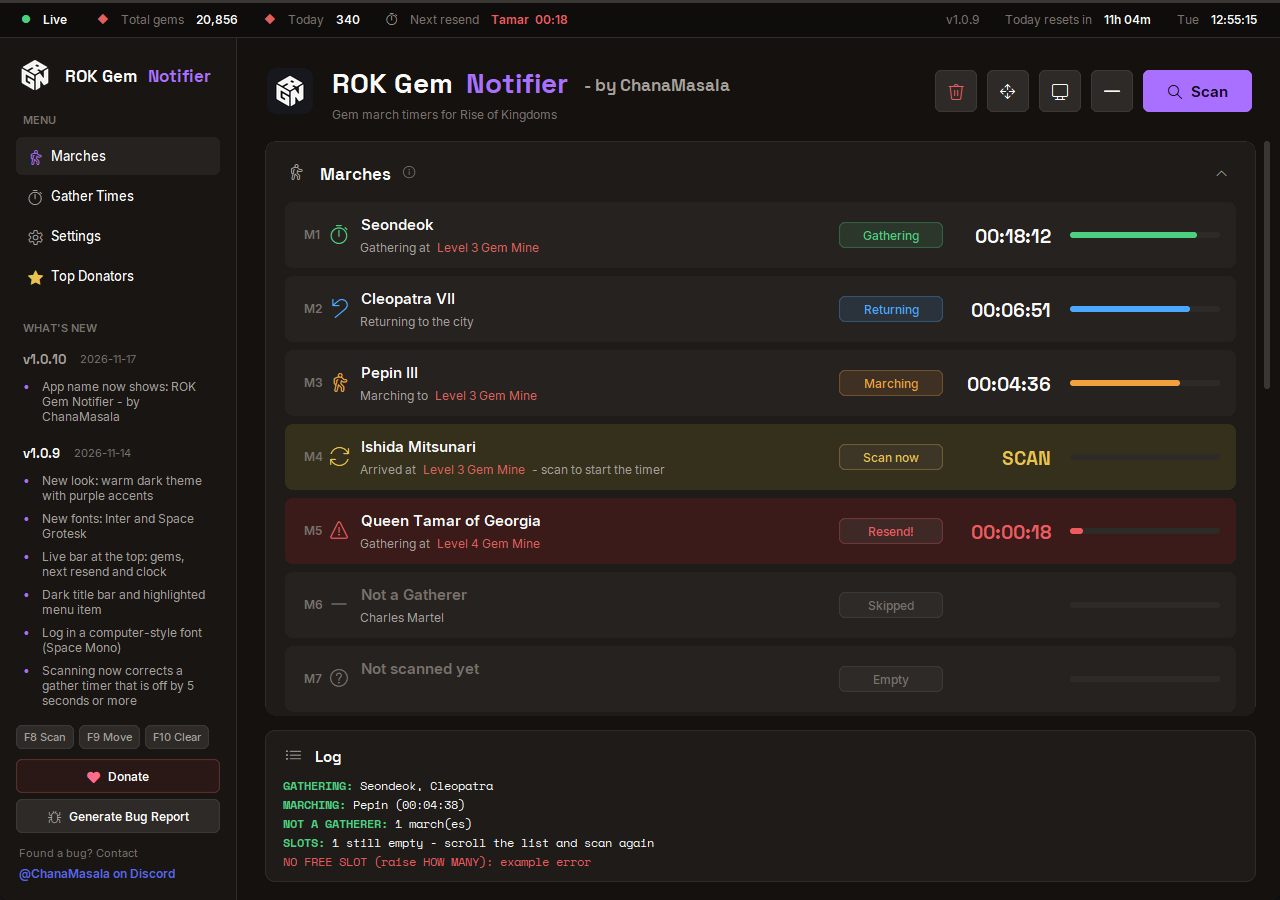
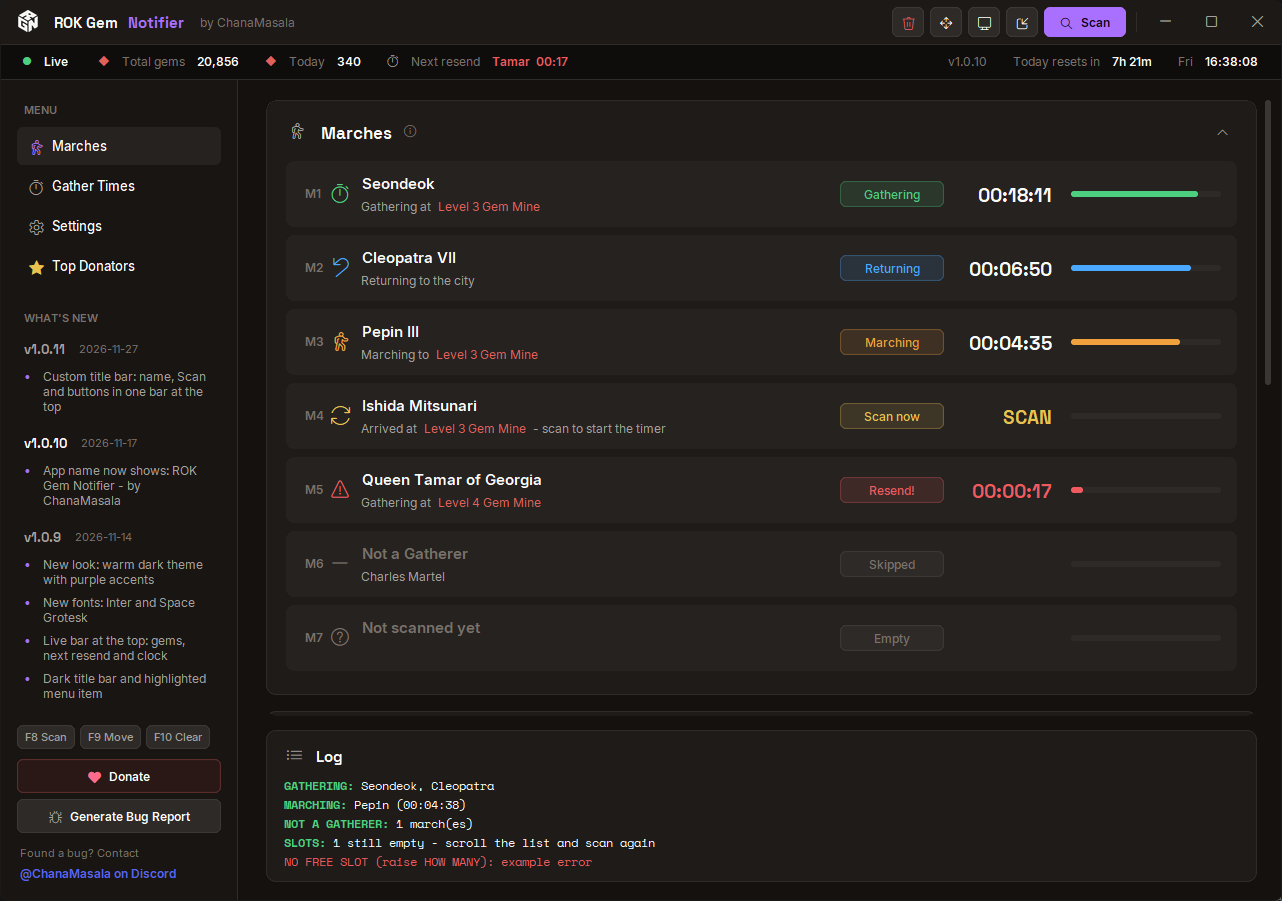
Custom window chrome: own title bar with name, Scan, tool and window buttons

diff --git a/source/rok_gem_notifier.py b/source/rok_gem_notifier.py
@@ -133,6 +133,9 @@ DONORS_FILE = "donors.json"               # last list downloaded, for offline us
 # Newest first. Shown in the sidebar under "What's new"; release.py uses the
 # entry of the version it publishes as the GitHub release notes.
 CHANGELOG = [
+    ("1.0.11", "2026-11-27", [
+        "Custom title bar: name, Scan and buttons in one bar at the top",
+    ]),
     ("1.0.10", "2026-11-17", [
         "App name now shows: ROK Gem Notifier - by ChanaMasala",
     ]),
@@ -363,6 +366,8 @@ BG, SIDEBAR, CARD, GROUP = "#14110f", "#181513", "#1e1b19", "#262220"
 FIELD, FIELD_HI, BORDER = "#2e2a28", "#3a3634", "#302c2a"
 EDGE = "#3d3936"           # thin outline of buttons and fields
 TOPBAR = "#0f0d0c"         # live strip along the top of the window
+TITLEBAR = "#1c1917"       # the app's own title bar (custom window chrome)
+CLOSE_HOVER = "#c42b1c"    # Windows' red for the close button
 PANEL, INPUT_BG, LINE = CARD, FIELD, BORDER          # older names, still used by the overlay
 TEXT, MUTED, WHITE = "#a6a09b", "#79716b", "#fafaf9"
 GRAY = MUTED
@@ -383,11 +388,12 @@ TITLE_RED = ACCENT         # "Notifier" in the app name
 # Segoe Fluent Icons / Segoe MDL2 Assets glyphs (built into Windows 10/11)
 IC = {"scan": "", "settings": "", "info": "", "sound": "",
       "timer": "", "clock": "", "trash": "", "move": "",
-      "tray": "", "overlay": "", "area": "", "full": "",
+      "tray": "", "overlay": "", "area": "", "full": "",
       "lock": "", "unlock": "", "down": "", "up": "",
       "walk": "", "reset": "", "smart": "", "log": "",
       "warn": "", "sync": "", "people": "", "minus": "",
-      "unknown": "", "return": "\ue7a7", "heart": "", "keyboard": "", "bug": "\uebe8", "star": "\ue735", "back": "\ue72b"}
+      "unknown": "", "return": "\ue7a7", "heart": "", "keyboard": "", "bug": "\uebe8", "star": "\ue735", "back": "\ue72b",
+      "w_min": "\ue921", "w_max": "\ue922", "w_restore": "\ue923", "w_close": "\ue8bb"}
 
 
 # ================================================================ core
@@ -1302,6 +1308,80 @@ def dark_titlebar(win, color):
         pass
 
 
+_CHROME = {}    # keeps the window-procedure callback alive
+
+
+def custom_chrome(win):
+    """Hide the Windows title bar but keep a real window: taskbar button, Alt+Tab,
+    snapping, minimise/maximise, resize edges, shadow and round corners all stay.
+    The app draws its own title bar instead. Returns the window handle, or None
+    (then the normal Windows title bar is kept)."""
+    if os.name != "nt":
+        return None
+    try:
+        import ctypes
+        from ctypes import wintypes as wt
+        u = ctypes.windll.user32
+        LRESULT = ctypes.c_ssize_t
+        PROC = ctypes.WINFUNCTYPE(LRESULT, wt.HWND, wt.UINT, wt.WPARAM, wt.LPARAM)
+        u.CallWindowProcW.restype = LRESULT
+        u.CallWindowProcW.argtypes = [ctypes.c_void_p, wt.HWND, wt.UINT, wt.WPARAM, wt.LPARAM]
+        u.SetWindowLongPtrW.restype = ctypes.c_void_p
+        u.SetWindowLongPtrW.argtypes = [wt.HWND, ctypes.c_int, ctypes.c_void_p]
+        u.MonitorFromWindow.restype = ctypes.c_void_p
+        u.MonitorFromWindow.argtypes = [wt.HWND, wt.DWORD]
+
+        class MONITORINFO(ctypes.Structure):
+            _fields_ = [("cbSize", wt.DWORD), ("rcMonitor", wt.RECT),
+                        ("rcWork", wt.RECT), ("dwFlags", wt.DWORD)]
+
+        win.update_idletasks()
+        hwnd = u.GetParent(win.winfo_id())
+        st = {}
+
+        def proc(h, msg, wp, lp):
+            try:
+                if msg == 0x0083 and wp:          # WM_NCCALCSIZE: no caption, keep the side/bottom resize edges
+                    r = wt.RECT.from_address(lp)
+                    top = r.top
+                    res = u.CallWindowProcW(st["old"], h, msg, wp, lp)
+                    r.top = top
+                    if u.IsZoomed(h):              # maximised: don't hide the top under the screen edge
+                        mi = MONITORINFO()
+                        mi.cbSize = ctypes.sizeof(MONITORINFO)
+                        if u.GetMonitorInfoW(ctypes.c_void_p(u.MonitorFromWindow(h, 2)),
+                                             ctypes.byref(mi)):
+                            r.top = max(top, mi.rcWork.top)
+                    return res
+                if msg == 0x0086:                  # WM_NCACTIVATE: don't paint a caption
+                    return u.CallWindowProcW(st["old"], h, msg, wp, -1)
+            except Exception:
+                pass
+            return u.CallWindowProcW(st["old"], h, msg, wp, lp)
+
+        cb = PROC(proc)
+        st["old"] = u.SetWindowLongPtrW(hwnd, -4, ctypes.cast(cb, ctypes.c_void_p))   # GWLP_WNDPROC
+        if not st["old"]:
+            return None
+        _CHROME[hwnd] = (cb, st)
+        u.SetWindowPos(hwnd, 0, 0, 0, 0, 0, 0x0027)    # NOSIZE|NOMOVE|NOZORDER|FRAMECHANGED
+        return hwnd
+    except Exception as e:
+        log_error("window chrome", e)
+        return None
+
+
+def win_drag(hwnd, where=2):
+    """Let Windows move (where=2, title bar) or resize (12 = top edge) the window,
+    exactly as if its own title bar / border had been grabbed (snapping included)."""
+    try:
+        import ctypes
+        ctypes.windll.user32.ReleaseCapture()
+        ctypes.windll.user32.SendMessageW(hwnd, 0x00A1, where, 0)   # WM_NCLBUTTONDOWN
+    except Exception:
+        pass
+
+
 def mix(c1, c2, t):
     """Colour c1 laid over c2 at strength t (0..1), as #rrggbb."""
     a = [int(c1[i:i + 2], 16) for i in (1, 3, 5)]
@@ -1745,7 +1825,8 @@ class App:
         except Exception:
             pass
         root.configure(bg=BG)
-        dark_titlebar(root, TOPBAR)
+        dark_titlebar(root, TITLEBAR)
+        self.hwnd = None if demo == "native" else custom_chrome(root)
         root.geometry("1280x900")
         root.minsize(1120, 620)
 
@@ -1823,6 +1904,7 @@ class App:
 
     # ---------- layout
     def build(self):
+        self.build_titlebar(self.root)
         self.build_topbar(self.root)
         side = tk.Frame(self.root, bg=SIDEBAR, width=236)
         side.pack(side="left", fill="y")
@@ -1831,7 +1913,7 @@ class App:
         main = tk.Frame(self.root, bg=BG)
         main.pack(side="left", fill="both", expand=True)
         self.build_sidebar(side)
-        self.build_header(main)
+        tk.Frame(main, bg=BG, height=20).pack(fill="x")
         self.build_update_bar(main)
         self.build_log(main)
         self.scroll = Scroll(main, BG)
@@ -1847,14 +1929,7 @@ class App:
             self.toggle_section(key, save=False)
 
     def build_sidebar(self, sd):
-        top = tk.Frame(sd, bg=SIDEBAR)
-        top.pack(fill="x", padx=18, pady=(20, 14))
-        self._logo_sm = self.logo(30)
-        tk.Label(top, image=self._logo_sm, bg=SIDEBAR).pack(side="left")
-        self.label(top, "ROK Gem", WHITE, 13, "head").pack(side="left", padx=(10, 0))
-        self.label(top, "Notifier", ACCENT, 13, "head").pack(side="left", padx=(4, 0))
-
-        self.label(sd, "MENU", MUTED, 8, "semi").pack(anchor="w", padx=20, pady=(4, 6))
+        self.label(sd, "MENU", MUTED, 8, "semi").pack(anchor="w", padx=20, pady=(20, 6))
         self.nav = {}
         for key, ic, name in (("marches", "walk", "Marches"), ("times", "timer", "Gather Times"),
                               ("settings", "settings", "Settings")):
@@ -1895,8 +1970,7 @@ class App:
 
     def build_topbar(self, root):
         """Thin live strip along the top (like kingshot.net): status, gems, next resend, clock."""
-        # grey gap: keeps the live bar apart from the dark Windows title bar above it
-        tk.Frame(root, bg=FIELD_HI, height=3).pack(side="top", fill="x")
+        tk.Frame(root, bg=BORDER, height=1).pack(side="top", fill="x")
         bar = tk.Frame(root, bg=TOPBAR, height=34)
         bar.pack(side="top", fill="x")
         bar.pack_propagate(False)
@@ -2163,38 +2237,87 @@ class App:
             w.pack(fill="x", pady=pady)
             used += h
 
-    def build_header(self, m):
-        h = tk.Frame(m, bg=BG)
-        h.pack(fill="x", padx=28, pady=(20, 16))
-        self._logo_hd = self.logo(46, rounded=True)
-        tk.Label(h, image=self._logo_hd, bg=BG).pack(side="left")
-        t = tk.Frame(h, bg=BG)
-        t.pack(side="left", padx=(14, 0))
-        nm = tk.Frame(t, bg=BG)
-        nm.pack(anchor="w")
-        self.label(nm, "ROK Gem", WHITE, 21, "head").pack(side="left")
-        self.label(nm, "Notifier", TITLE_RED, 21, "head").pack(side="left", padx=(7, 0))
-        self.label(nm, "- by ChanaMasala", TEXT, 13, "head").pack(side="left", padx=(10, 0),
-                                                                 anchor="s", pady=(0, 5))
-        self.label(t, "Gem march timers for Rise of Kingdoms", MUTED, 9).pack(anchor="w")
+    def build_titlebar(self, root):
+        """The app's own title bar: name, Scan, tool buttons and the window buttons.
+        Drag it to move the window (snapping works), double-click to maximise."""
+        H = 44
+        bar = self.tbar = tk.Frame(root, bg=TITLEBAR, height=H)
+        bar.pack(side="top", fill="x")
+        bar.pack_propagate(False)
+        grip = tk.Frame(bar, bg=TITLEBAR, height=4, cursor="sb_v_double_arrow" if self.hwnd else "")
+        grip.place(x=0, y=0, relwidth=1)               # top edge: resize
+        if self.hwnd:
+            grip.bind("<ButtonPress-1>", lambda e: self.root.state() != "zoomed"
+                      and win_drag(self.hwnd, 12))
 
-        self.scan_btn = Pill(h, "Scan", glyph("scan"), self.start_scan, fill=ACCENT,
-                             fg=ON_ACCENT, hover=ACCENT_HI, h=42, size=11, padx=24,
+        left = tk.Frame(bar, bg=TITLEBAR)
+        left.pack(side="left", padx=(14, 0))
+        self._logo_tb = self.logo(22)
+        lg = tk.Label(left, image=self._logo_tb, bg=TITLEBAR)
+        lg.pack(side="left")
+        a = self.label(left, "ROK Gem", WHITE, 11, "head")
+        a.pack(side="left", padx=(10, 0))
+        b = self.label(left, "Notifier", TITLE_RED, 11, "head")
+        b.pack(side="left", padx=(4, 0))
+        c = self.label(left, "by ChanaMasala", MUTED, 9)
+        c.pack(side="left", padx=(10, 0), pady=(2, 0))
+        for w in (bar, left, lg, a, b, c):              # grab anywhere on the bar to move
+            w.bind("<ButtonPress-1>", self._tb_drag)
+            w.bind("<Double-Button-1>", lambda e: self.toggle_max())
+
+        # window buttons (right edge, full bar height, like Windows' own)
+        self.win_btns = {}
+        for key, ic, cmd, tip in (("close", "w_close", self.quit_app, "Close"),
+                                  ("max", "w_max", self.toggle_max, "Maximise"),
+                                  ("min", "w_min", self.minimize, "Minimise")):
+            lb = tk.Label(bar, text=glyph(ic) or {"close": "x", "max": "[]", "min": "_"}[key],
+                          bg=TITLEBAR, fg=TEXT, font=icon_font(8), width=6, padx=6)
+            lb.pack(side="right", fill="y")
+            hov = CLOSE_HOVER if key == "close" else FIELD
+            lb.bind("<Enter>", lambda e, w=lb, h=hov: w.configure(bg=h, fg=WHITE))
+            lb.bind("<Leave>", lambda e, w=lb: w.configure(bg=TITLEBAR, fg=TEXT))
+            lb.bind("<ButtonRelease-1>", lambda e, w=lb, f=cmd: (
+                0 <= e.x < w.winfo_width() and 0 <= e.y < w.winfo_height()) and f())
+            self.win_btns[key] = lb
+        tk.Frame(bar, bg=BORDER, width=1).pack(side="right", fill="y", pady=12, padx=(10, 6))
+
+        # app buttons
+        self.scan_btn = Pill(bar, "Scan", glyph("scan"), self.start_scan, fill=ACCENT,
+                             fg=ON_ACCENT, hover=ACCENT_HI, h=30, size=9, padx=16,
                              tip=lambda: f"Read the Troops list on screen ({key_label(self.keys['scan'])})")
         self.scan_btn.pack(side="right")
-        btn = dict(h=42, width=42, fill=FIELD, hover=FIELD_HI, size=11, fg=WHITE)
-        self.tray_btn = Pill(h, "", glyph("tray"), self.minimize_to_tray,
+        btn = dict(h=30, width=32, fill=FIELD, hover=FIELD_HI, size=9, fg=WHITE)
+        self.tray_btn = Pill(bar, "", glyph("tray"), self.minimize_to_tray,
                              tip="Hide to the system tray (timers keep running)", **btn)
-        self.ov_btn = Pill(h, "", glyph("overlay"), self.toggle_overlay,
+        self.ov_btn = Pill(bar, "", glyph("overlay"), self.toggle_overlay,
                            tip="Overlay on / off", **btn)
-        self.move_btn = Pill(h, "", glyph("move"), self.toggle_move,
+        self.move_btn = Pill(bar, "", glyph("move"), self.toggle_move,
                              tip=lambda: "Unlock the overlay to drag it, click again to lock "
                                          f"({key_label(self.keys['move'])})", **btn)
-        self.clear_btn = Pill(h, "", glyph("trash"), self.clear,
+        self.clear_btn = Pill(bar, "", glyph("trash"), self.clear,
                               tip=lambda: f"Clear all timers ({key_label(self.keys['clear'])})",
                               **dict(btn, icon_fg=RED))
         for b in (self.tray_btn, self.ov_btn, self.move_btn, self.clear_btn):
-            b.pack(side="right", padx=(0, 10))
+            b.pack(side="right", padx=(0, 6))
+        self.root.bind("<Configure>", self._win_state, add="+")
+
+    def _tb_drag(self, e):
+        if self.hwnd:
+            win_drag(self.hwnd)
+
+    def toggle_max(self):
+        self.root.state("normal" if self.root.state() == "zoomed" else "zoomed")
+
+    def minimize(self):
+        self.root.iconify()
+
+    def _win_state(self, e=None):
+        """Maximise button shows 'restore' while the window is maximised."""
+        z = self.root.state() == "zoomed"
+        b = self.win_btns["max"]
+        ic = glyph("w_restore" if z else "w_max")
+        if ic and b.cget("text") != ic:
+            b.configure(text=ic)
 
     # ---------- Top Donators page
     def build_board(self, m):
